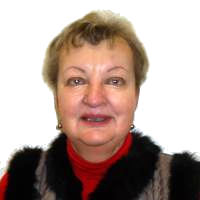
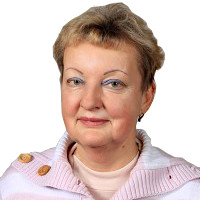
ukfo: Kepka -> Kielbusová

diff --git a/html/uvfo.html b/html/uvfo.html
@@ -306,14 +306,14 @@ Jeronýmova 10,
 
 <div class="row">
 <div class="col-xs-4 col-sm-5 col-md-4 col-lg-3">
-	<img src="/pic/ukfo/kepka.jpg" alt="Josef Kepka">
+	<img src="/pic/ukfo/kielbusova.jpg" alt="Zdeňka Kielbusová">
 </div>
 <div class="col-xs-8 col-sm-7 col-md-8 col-lg-9">
 <p>
-<strong>PaedDr. Josef Kepka, CSc.</strong> (Západočeský kraj)<br />   
-<a href="mailto:kepka@spp.zcu.cz">kepka@spp.zcu.cz</a><br>
+<strong>PhDr. Zdeňka Kielbusová</strong> (Plzeňský kraj)<br />   
+<a href="mailto:kielbus@kmt.zcu.cz">kielbus@kmt.zcu.cz</a><br>
 FPE ZČU v Plzni, Klatovská 51, 301 00 Plzeň<br>
-377 636 670
+377 636 312
 </p>
 </div>
 </div>
